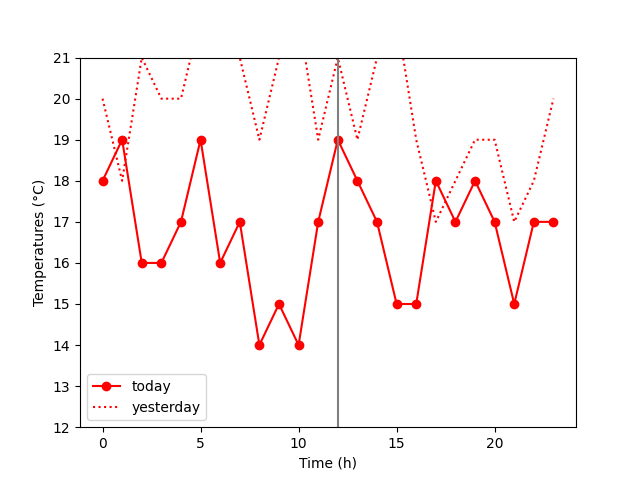
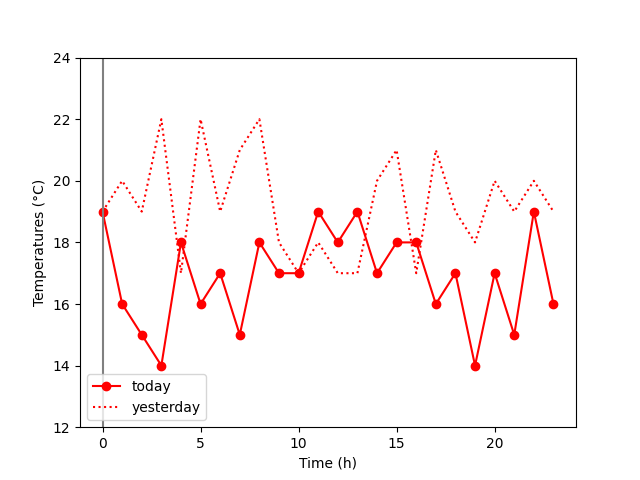
그래프 수정

diff --git a/mysite/polls/visualizer.py b/mysite/polls/visualizer.py
@@ -1,8 +1,9 @@
-
+#%%
 import matplotlib.pyplot as plt
 import numpy as np
 #from django.utils import timezone
 import time
+from polls.models import *
 
 ############## 
 ### 날씨 데이터를 그래프화하고 이를 png로 저장합니다.
@@ -14,24 +15,36 @@ import time
 ### 1일전, 2일전, 7일전을 선택해서 비교가능하게 구현한다고 생각하고 만들어봤습니다.
 ### (의도와 맞지 않을 시 수정하거나 수하님 그래프 사용)
 ##############
+
 #### 데이터필드에 맞춰 함수명 변경했습니다.
+#데이터 리스트
+#forecastData(기온) 리스트
+#{'id','fcstDate','fcstTime','fcstValue', 'fnx', 'fny'} 순서
+
+# temps=[i[3] for i in forecastData.objects.filter(fcstDate='20240417').values_list()]
+#                    단위값 수정할 곳                조건 수정할 곳
+#        (forecastData, Rainpercent, Wind)
+
+
+
 def Forecast_chart():
     temps = np.random.randint(14,20, size=24)
     yesterday_temps = np.random.randint(17, 23, size=24)
     now = time
 
-    plt.plot(range(0, 24), temps, color='red', marker='o', linestyle='solid', label='today')
-    plt.plot(range(0, 24), yesterday_temps, color='red', linestyle=":", label='yesterday')
+    plt.plot(range(len(temps)), temps, color='red', marker='o', linestyle='solid', label='today')
+    plt.plot(range(len(yesterday_temps)), yesterday_temps, color='red', linestyle=":", label='yesterday')
     plt.vlines(now.localtime().tm_hour, 0, 40, color='gray', linestyle='solid')
 
     plt.legend(loc='lower left', ncols=1)
     min(temps)<min(yesterday_temps)
-    plt.ylim(min(temps)-2 , max(temps)+2)
+    plt.ylim(min(min(temps),min(yesterday_temps))-2 , max(max(temps),max(yesterday_temps))+2)
     plt.ylabel("Temperatures (°C)")
     plt.xlabel("Time (h)")
 
     graph_path = ''
     plt.savefig('static/graphs/temp_graph.png', format='png')
+    plt.show()
 # Forecast_chart()
 
 def Rainpercents_chart():
@@ -49,7 +62,9 @@ def Rainpercents_chart():
     plt.xlabel("Time (h)")
 
     plt.savefig('static/graphs/rain_graph.png', format='png')
+    plt.show()
 # Rainpercents_chart()
+
 def Winds_chart():
     winds = np.random.randint(1, 7, size=24)
     yesterday_winds = np.random.randint(1, 5, size=24)
@@ -65,6 +80,8 @@ def Winds_chart():
     plt.xlabel("Time (h)")
 
     plt.savefig('static/graphs/wind_graph.png', format='png')
+    plt.show()
+
 # Winds_chart()
 
 # %%

diff --git a/mysite/polls/models.py b/mysite/polls/models.py
@@ -10,6 +10,7 @@ class forecastData(models.Model): #날짜 별 온도 데이터 저장
     def __str__(self):
         return f'{self.fcstDate[:4]}년 {self.fcstDate[4:6]}월 {self.fcstDate[6:]}일 {self.fcstTime}시 온도(도씨)'
     
+        
 class Rainpercent(models.Model): #날짜 별 강수확률 데이터 저장
     fcstDate = models.CharField(max_length=8)
     fcstTime = models.CharField(max_length=2)
